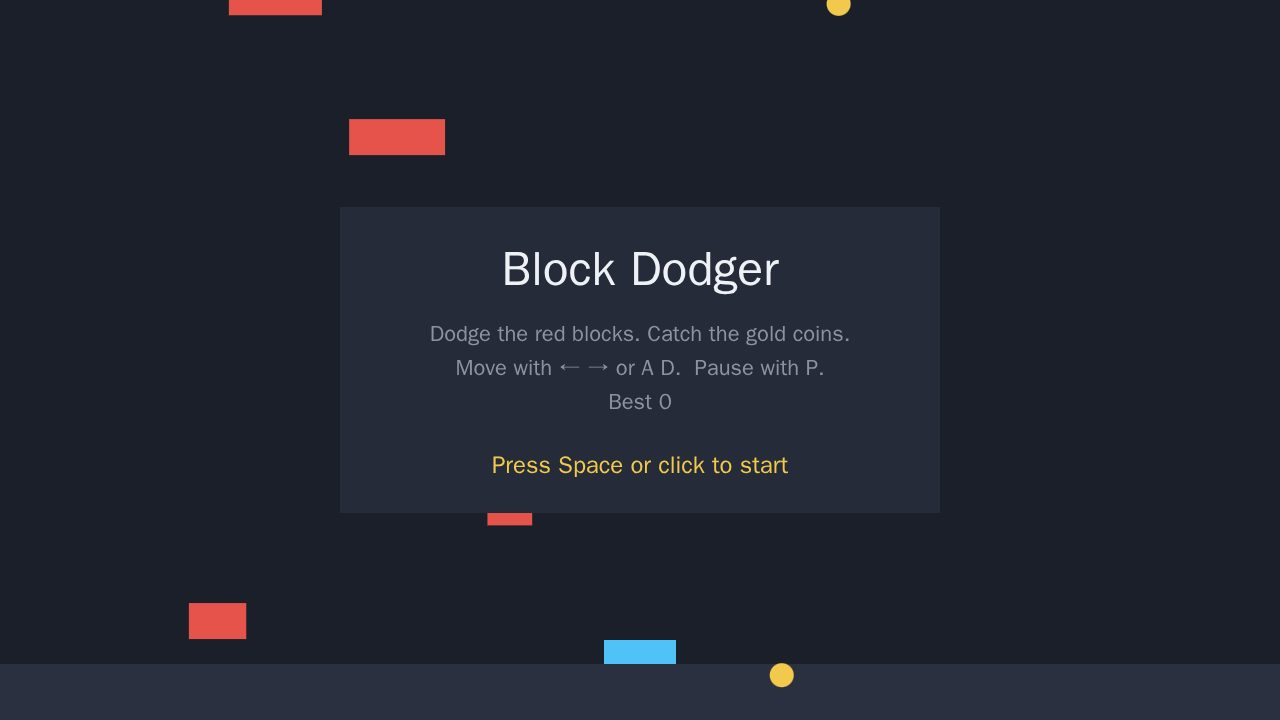
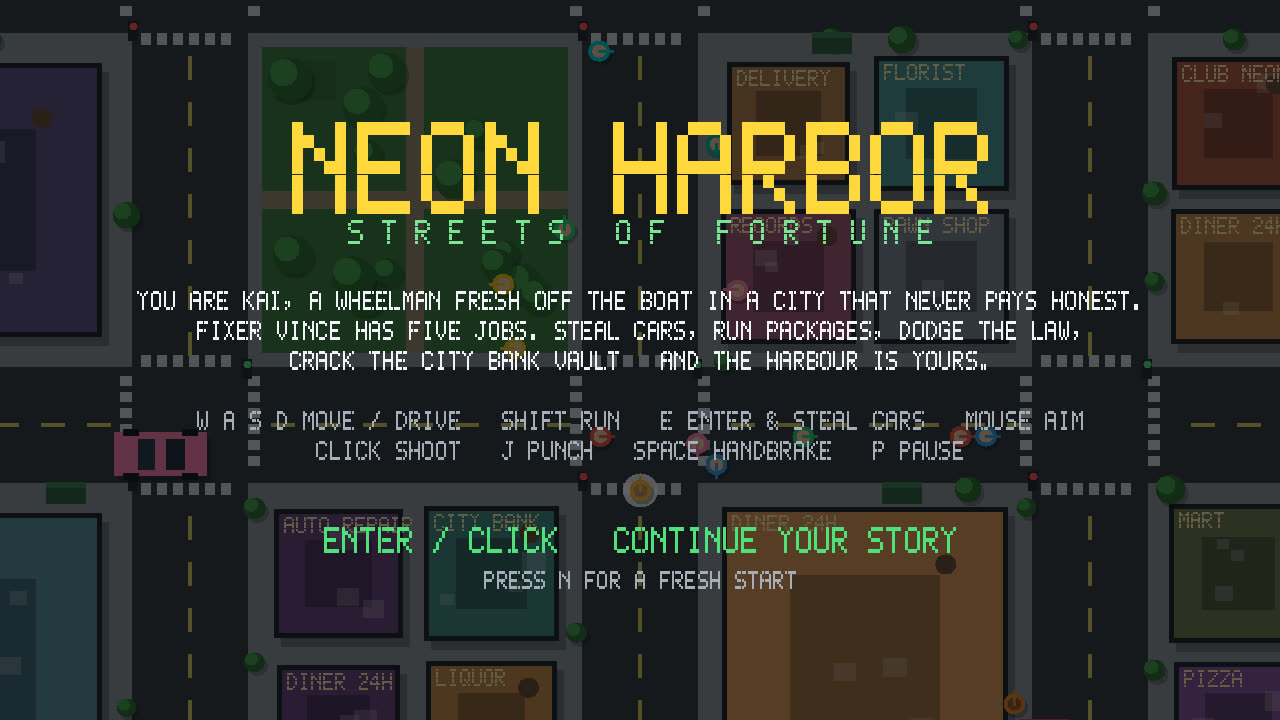
Fix subtitle wrapping, add headless screenshot harness and tests, ignore out/

diff --git a/game/src/render.js b/game/src/render.js
@@ -446,7 +446,7 @@ export function createRenderer(canvas) {
     // toast
     if (state.msgT > 0 && state.msg) {
       ctx.globalAlpha = Math.min(1, state.msgT);
-      const w = 30 + state.msg.length * 10.5;
+      const w = 30 + state.msg.length * 13.5;
       panel(VIEW.width / 2 - w / 2, 86, w, 44);
       text(state.msg, VIEW.width / 2, 115, 19, PALETTE.text, 'center', true);
       ctx.globalAlpha = 1;
@@ -460,8 +460,19 @@ export function createRenderer(canvas) {
     }
     if (state.subT > 0 && state.sub) {
       ctx.globalAlpha = Math.min(1, state.subT / 1.5);
-      panel(VIEW.width / 2 - 430, VIEW.height - 168, 860, 56);
-      text(state.sub, VIEW.width / 2, VIEW.height - 133, 17.5, PALETTE.text, 'center', false);
+      // word-wrap the story line to at most two lines inside the panel
+      const words = state.sub.split(' ');
+      const lines = [''];
+      for (const w of words) {
+        const cur = lines[lines.length - 1];
+        if ((cur + ' ' + w).trim().length > 68 && lines.length < 2) lines.push(w);
+        else lines[lines.length - 1] = (cur + ' ' + w).trim();
+      }
+      const ph = 34 + lines.length * 24;
+      panel(VIEW.width / 2 - 450, VIEW.height - 104 - ph, 900, ph);
+      lines.forEach((ln, i) => {
+        text(ln, VIEW.width / 2, VIEW.height - 104 - ph + 36 + i * 24, 17.5, PALETTE.text, 'center', false);
+      });
       ctx.globalAlpha = 1;
     }
     // busted meter
